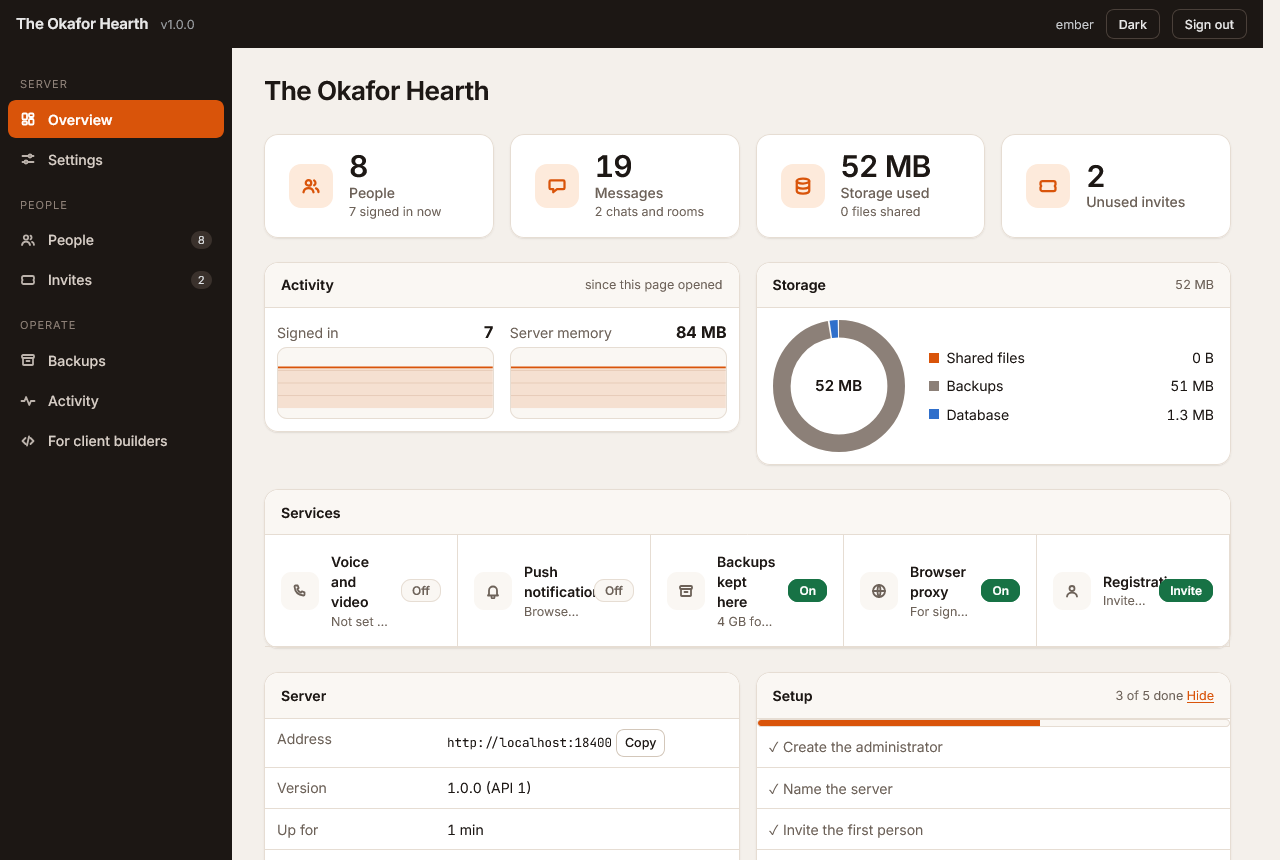
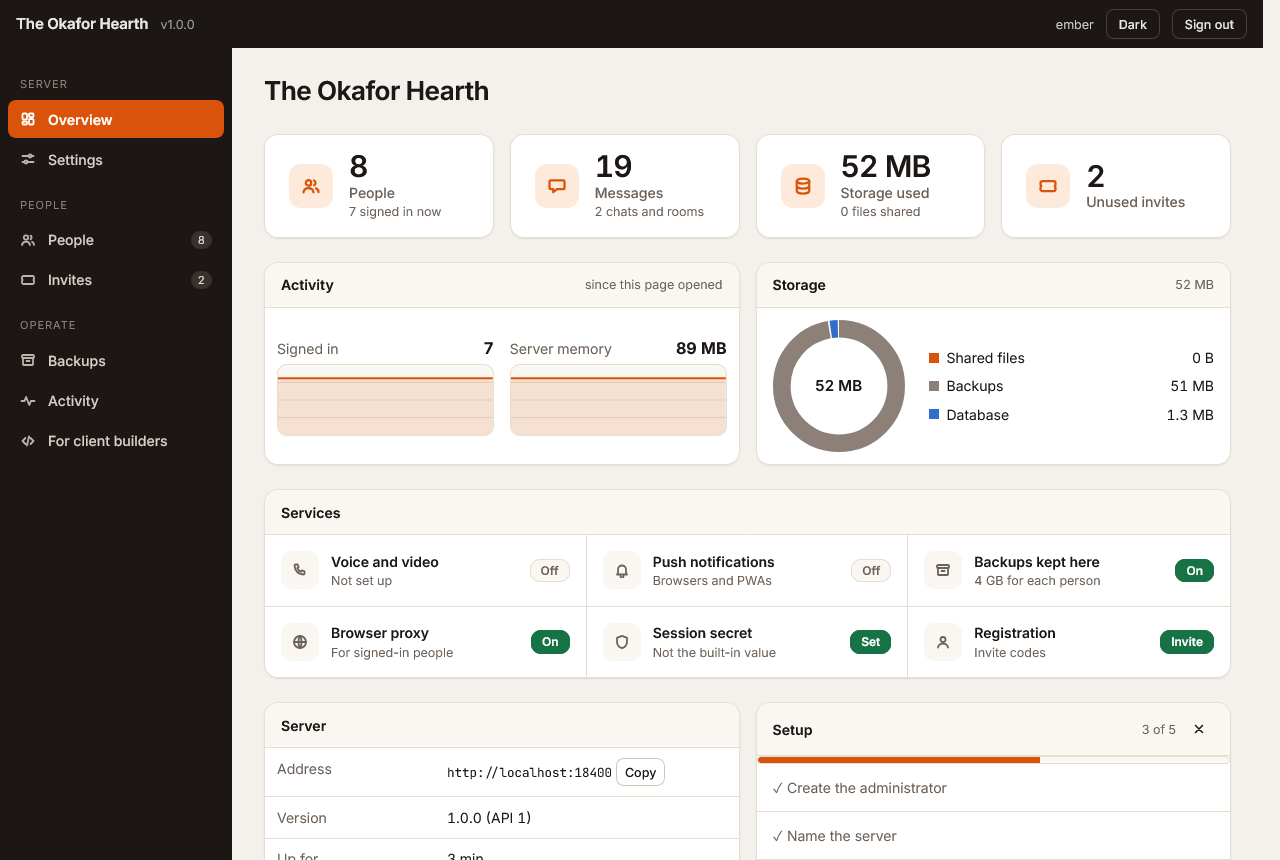
Admin panel: even grids, no cut-off content, a dismiss button, tables as cards on phones
Four equal tiles, equal-height panels side by side, six services in an even 3x2 (2x3, 1x6) grid, the setup list dismissed with a close button instead of the word "Hide". On a phone every table row becomes a card with its column headings (no sideways scrolling), tiles stack their icon above the text, the welcome note is a wrapping box, empty settings boxes say "Not set", backup columns line up across people, graphs fill their boxes, and the API guide button is no longer underlined.

Changed region(s): [[0.2188, 0.6349, 0.9688, 1.0], [0.2188, 0.3628, 0.5938, 0.514], [0.3438, 0.8465, 0.5312, 1.0]]

diff --git a/server/src/admin/admin.css b/server/src/admin/admin.css
@@ -378,3 +378,89 @@ dialog { border-radius: var(--r-lg); box-shadow: 0 12px 40px rgba(0, 0, 0, .3); 
   .tile { padding: var(--s3) var(--s4); }
   .page-head h1 { font-size: 22px; }
 }
+
+
+/* ================================================================== alignment and small screens */
+/* Panels that sit side by side are the same height, and their content is spread the same way. */
+.cols { align-items: stretch; }
+.cols > .panel { display: flex; flex-direction: column; }
+.cols > .panel > :last-child { flex: 1; }
+.cols > .panel > .kv { align-content: start; }
+.charts { align-content: center; height: 100%; }
+.storage { height: 100%; justify-content: center; }
+.tiles { grid-template-columns: repeat(4, minmax(0, 1fr)); }
+.tile { min-width: 0; }
+.tile-body { min-width: 0; }
+.svcs { grid-template-columns: repeat(3, minmax(0, 1fr)); }
+.svc:nth-child(3n) { border-right: 0; }
+.svc:nth-last-child(-n+3) { border-bottom: 0; }
+.svc-body { min-width: 0; }
+.svc .badge { flex: none; }
+.btn.icon-only .icon { width: 14px; height: 14px; }
+.panel > .ph .meta { display: inline-flex; align-items: center; gap: var(--s2); }
+th.r, td.r { text-align: right; }
+
+@media (max-width: 1100px) {
+  .tiles { grid-template-columns: repeat(2, minmax(0, 1fr)); }
+  .svcs { grid-template-columns: repeat(2, minmax(0, 1fr)); }
+  .svc:nth-child(3n) { border-right: 1px solid var(--line); }
+  .svc:nth-child(2n) { border-right: 0; }
+  .svc:nth-last-child(-n+3) { border-bottom: 1px solid var(--line); }
+  .svc:nth-last-child(-n+2) { border-bottom: 0; }
+}
+@media (max-width: 900px) {
+  .cols { grid-template-columns: minmax(0, 1fr); }
+  .charts { height: auto; }
+  .storage { height: auto; }
+}
+@media (max-width: 640px) {
+  .tiles { gap: var(--s3); }
+  .tile { flex-direction: column; align-items: flex-start; gap: var(--s2); padding: var(--s3) var(--s4); }
+  .tile-ico { width: 36px; height: 36px; }
+  .svcs { grid-template-columns: minmax(0, 1fr); }
+  .svc, .svc:nth-child(n) { border-right: 0; border-bottom: 1px solid var(--line); }
+  .svc:last-child { border-bottom: 0; }
+  .page-head { flex-wrap: wrap; }
+  .page-actions { flex-wrap: wrap; }
+  .toolbar .grow { flex-basis: 100%; }
+  .search .input { max-width: none; }
+  .storage { flex-direction: column; align-items: stretch; }
+  .ring-wrap { align-self: center; }
+  .kv { grid-template-columns: minmax(0, 1fr); }
+  .kv > .k { padding-bottom: 0; border-bottom: 0; }
+  .kv > div:nth-last-child(2) { border-bottom: 0; }
+  .setting .head { min-height: 0; }
+
+  /* a table row becomes a card: heading on the left, value on the right */
+  table.stack thead { display: none; }
+  table.stack, table.stack tbody { display: block; }
+  table.stack tr { display: block; padding: var(--s2) var(--s4); border-bottom: 1px solid var(--line); }
+  table.stack tbody tr:last-child { border-bottom: 0; }
+  table.stack td { display: flex; justify-content: space-between; align-items: center; gap: var(--s3); padding: 6px 0; border: 0; text-align: right; }
+  table.stack td[data-label]::before { content: attr(data-label); color: var(--muted); font-size: var(--t-sm); text-align: left; flex: none; }
+  table.stack td.actions { justify-content: flex-end; padding-top: var(--s2); }
+  table.stack td.actions::before { content: none; }
+  table.stack td:first-child { justify-content: flex-start; font-weight: 600; padding-top: var(--s2); }
+  table.stack td:first-child::before { content: none; }
+  .route { grid-template-columns: 52px minmax(0, 1fr); }
+  .sheet { width: calc(100vw - 24px); }
+  .manage .row { grid-template-columns: minmax(0, 1fr); gap: var(--s2); }
+}
+
+a.btn { text-decoration: none; }
+a.btn:hover { color: var(--ink); }
+table.fixed { table-layout: fixed; }
+table.fixed td { overflow-wrap: anywhere; }
+.steps .step { display: flex; align-items: center; justify-content: space-between; gap: var(--s3); padding: var(--s2) var(--s4); min-height: 48px; border-bottom: 1px solid var(--line); }
+.steps .step:last-child { border-bottom: 0; }
+.steps .step.done { color: var(--muted); }
+.steps .step-t { min-width: 0; }
+textarea.input { height: auto; min-height: 60px; padding: 8px 12px; resize: vertical; line-height: 1.45; font: inherit; }
+@media (max-width: 640px) {
+  .toolbar select.input { width: 100% !important; }
+  table.stack td > span { text-align: right; }
+  table.fixed { table-layout: auto; }
+  .steps .step { flex-wrap: wrap; }
+}
+
+.spark .line, .spark .grid { vector-effect: non-scaling-stroke; }

diff --git a/server/src/admin/v-overview.js b/server/src/admin/v-overview.js
@@ -77,6 +77,7 @@ export async function overview(ctx) {
         service({ ico: 'push', title: 'Push notifications', state: s.push.configured ? 'On' : 'Off', kind: s.push.configured ? 'good' : 'off', line: 'Browsers and PWAs' }),
         service({ ico: 'backups', title: 'Backups kept here', state: info.features.backups ? 'On' : 'Off', kind: info.features.backups ? 'good' : 'off', line: `${Math.round(info.limits.backupQuotaMb / 1024 * 10) / 10} GB for each person` }),
         service({ ico: 'browser', title: 'Browser proxy', state: info.features.browser ? 'On' : 'Off', kind: info.features.browser ? 'good' : 'off', line: 'For signed-in people' }),
+        service({ ico: 'shield', title: 'Session secret', state: s.secrets.sessionSecretChanged ? 'Set' : 'Default', kind: s.secrets.sessionSecretChanged ? 'good' : 'warn', line: s.secrets.sessionSecretChanged ? 'Not the built-in value' : 'Change it' }),
         service({ ico: 'user', title: 'Registration', state: info.registration === 'open' ? 'Open' : 'Invite', kind: info.registration === 'open' ? 'warn' : 'good', line: info.houseKey ? 'A house key is set' : 'Invite codes' }))),
 
     h('div', { class: 'cols' },
@@ -89,8 +90,8 @@ export async function overview(ctx) {
           ['Data folder', h('code', null, s.dataDir)],
         ])),
       showList ? h('div', { class: 'panel' },
-        h('div', { class: 'ph' }, 'Setup', h('span', { class: 'meta' }, `${doneCount} of ${steps.length} done `, h('button', { type: 'button', class: 'link', onclick: () => { try { localStorage.setItem(DISMISSED, '1'); } catch { /* ignore */ } ctx.render(); } }, 'Hide'))),
+        h('div', { class: 'ph' }, 'Setup', h('span', { class: 'meta' }, `${doneCount} of ${steps.length}`, h('button', { type: 'button', class: 'btn quiet sm icon-only', title: 'Dismiss', 'aria-label': 'Dismiss the setup list', onclick: () => { try { localStorage.setItem(DISMISSED, '1'); } catch { /* ignore */ } ctx.render(); } }, icon('close')))),
         h('div', { class: 'meter' }, h('span', { style: `width:${(doneCount / steps.length) * 100}%` })),
-        h('div', { class: 'table-wrap' }, h('table', null, h('tbody', null, steps.map((x) => h('tr', { class: x.done ? 'off' : '' }, h('td', null, x.done ? '✓ ' : '☐ ', x.t), h('td', { class: 'actions' }, !x.done && x.go ? button(x.go[0], { small: true, onclick: x.go[1] }) : null))))))) : h('div', { class: 'panel' }, h('div', { class: 'ph' }, 'Counts'),
+        h('div', { class: 'steps' }, steps.map((x) => h('div', { class: 'step' + (x.done ? ' done' : '') }, h('span', { class: 'step-t' }, x.done ? '\u2713 ' : '\u2610 ', x.t), !x.done && x.go ? button(x.go[0], { small: true, onclick: x.go[1] }) : null)))) : h('div', { class: 'panel' }, h('div', { class: 'ph' }, 'Counts'),
         kv([['People', String(s.counts.users)], ['Signed in now', String(s.counts.signedIn)], ['Chats and rooms', String(s.counts.rooms)], ['Messages', String(s.counts.messages)], ['Files shared', String(s.counts.attachments)]]))));
 }

diff --git a/server/src/admin/v-more.js b/server/src/admin/v-more.js
@@ -1,6 +1,7 @@
 import { ago, api, bytes, button, confirmBox, copy, day, h, megabytes, pageHead, pill, secretDialog, time, toast } from './ui.js';
 
-const table = (heads, rows, rightFrom = 99) => h('div', { class: 'table-wrap' }, h('table', null,
+const table = (heads, rows, rightFrom = 99, widths = null) => h('div', { class: 'table-wrap' }, h('table', { class: widths ? 'fixed' : '' },
+  widths ? h('colgroup', null, widths.map((w) => h('col', { style: `width:${w}` }))) : null,
   h('thead', null, h('tr', null, heads.map((t, i) => h('th', { class: i >= rightFrom ? 'r' : '' }, t)))), h('tbody', null, rows)));
 
 // ---------------------------------------------------------------------------------------------- invites
@@ -46,7 +47,7 @@ export async function backups(ctx) {
           h('td', { class: 'actions' }, button('Delete', { small: true, kind: 'danger', onclick: async () => {
             if (!(await confirmBox({ title: 'Delete this backup', text: `${f.name} belongs to ${u.username}. They may not be able to restore from it afterwards.`, yes: 'Delete', danger: true }))) return;
             try { await api(`/api/admin/backups/${u.userId}/${encodeURIComponent(f.name)}`, { method: 'DELETE' }); toast('Deleted'); ctx.render(); } catch (e) { toast(e.message, true); }
-          } }))))));
+          } })))), 99, ['46%', '14%', '28%', '12%']));
     }) : h('div', { class: 'panel' }, h('div', { class: 'empty' }, 'No backups')),
     list.length ? h('p', { class: 'hint num' }, `${bytes(total)} in total, ${list.length} ${list.length === 1 ? 'person' : 'people'}`) : null);
 }

diff --git a/server/src/admin/admin.js b/server/src/admin/admin.js
@@ -119,6 +119,20 @@ const ctx = {
   afterRender(fn) { after.push(fn); },
 };
 
+/** Each table cell remembers its column heading, so on a phone a row can be shown as a card with the heading beside each value. */
+function labelCells(root) {
+  for (const table of root.querySelectorAll('table')) {
+    const heads = [...table.querySelectorAll('thead th')].map((th) => th.textContent.trim());
+    if (!heads.length) continue;
+    table.classList.add('stack');
+    for (const tr of table.querySelectorAll('tbody tr')) [...tr.children].forEach((td, i) => {
+      if (!heads[i]) return;
+      td.setAttribute('data-label', heads[i]);
+      if (td.childNodes.length > 1 && !td.querySelector('button')) { const span = document.createElement('span'); span.append(...td.childNodes); td.append(span); }
+    });
+  }
+}
+
 let renderToken = 0;
 async function render(keepScroll = false) {
   const token = ++renderToken;
@@ -133,6 +147,7 @@ async function render(keepScroll = false) {
     const el = await tab.view(ctx);
     if (token !== renderToken) return;
     content.replaceChildren(...el.childNodes);
+    labelCells(content);
     window.scrollTo(0, y);
     for (const fn of after.splice(0)) { try { fn(); } catch { /* a view's tidy-up must not break the page */ } }
   } catch (err) {

diff --git a/server/src/admin/v-settings.js b/server/src/admin/v-settings.js
@@ -85,7 +85,8 @@ export async function settings(ctx) {
         ctl = h('div', { style: 'display:grid;gap:6px;width:100%' }, h('div', { class: 'input-wrap' }, input, unit ? h('span', { class: 'suffix' }, unit) : null), unit ? f.unit : null);
         if (!unit) f.unit = null;
       } else {
-        const input = h('input', { class: 'input' + (/url|key|public/i.test(s.key) ? ' mono' : ''), id, type: 'text', autocomplete: 'off', spellcheck: 'false', value: v, oninput: (e) => set(s, e.target.value) });
+        const long = s.key === 'motd';
+        const input = h(long ? 'textarea' : 'input', { class: 'input' + (/url|key|public/i.test(s.key) ? ' mono' : '') + (long ? ' area' : ''), id, type: long ? null : 'text', rows: long ? 2 : null, autocomplete: 'off', spellcheck: long ? 'true' : 'false', placeholder: 'Not set', value: v, oninput: (e) => set(s, e.target.value) });
         f.input = input;
         ctl = input;
       }

diff --git a/server/src/admin/icons.js b/server/src/admin/icons.js
@@ -13,6 +13,8 @@ const P = {
   database: '<ellipse cx="8" cy="4" rx="5" ry="2"/><path d="M3 4v8c0 1.1 2.2 2 5 2s5-.9 5-2V4M3 8c0 1.1 2.2 2 5 2s5-.9 5-2"/>',
   server: '<rect x="2" y="3" width="12" height="4" rx="1"/><rect x="2" y="9" width="12" height="4" rx="1"/><path d="M4.5 5h.01M4.5 11h.01"/>',
   msg: '<path d="M3 3.5h10a1 1 0 0 1 1 1v5a1 1 0 0 1-1 1H8l-3 2.5v-2.5H3a1 1 0 0 1-1-1v-5a1 1 0 0 1 1-1z"/>',
+  close: '<path d="M4 4l8 8M12 4l-8 8"/>',
+  shield: '<path d="M8 1.8l5 2v4.2c0 3-2 5.2-5 6.2-3-1-5-3.2-5-6.2V3.8z"/>',
   menu: '<path d="M2.5 4h11M2.5 8h11M2.5 12h11"/>',
   user: '<circle cx="8" cy="5.5" r="2.5"/><path d="M3 13.5c.5-2.6 2.6-3.8 5-3.8s4.5 1.2 5 3.8"/>',
   logout: '<path d="M6.5 3H4a1.5 1.5 0 0 0-1.5 1.5v7A1.5 1.5 0 0 0 4 13h2.5M10 5l3 3-3 3M13 8H6"/>',

diff --git a/server/src/admin/charts.js b/server/src/admin/charts.js
@@ -4,7 +4,7 @@ const el = (tag, attrs) => { const e = document.createElementNS(NS, tag); for (c
 
 /** A line over time. `points` are numbers; the line fills down to the bottom. */
 export function sparkline(points, { width = 240, height = 56, min = 0, max } = {}) {
-  const svg = el('svg', { viewBox: `0 0 ${width} ${height}`, class: 'spark', role: 'img', 'aria-label': 'History' });
+  const svg = el('svg', { viewBox: `0 0 ${width} ${height}`, class: 'spark', role: 'img', 'aria-label': 'History', preserveAspectRatio: 'none' });
   const data = points.length > 1 ? points : [points[0] ?? 0, points[0] ?? 0];
   const hi = max ?? Math.max(1, ...data) * 1.15;
   const x = (i) => (i / (data.length - 1)) * width;
